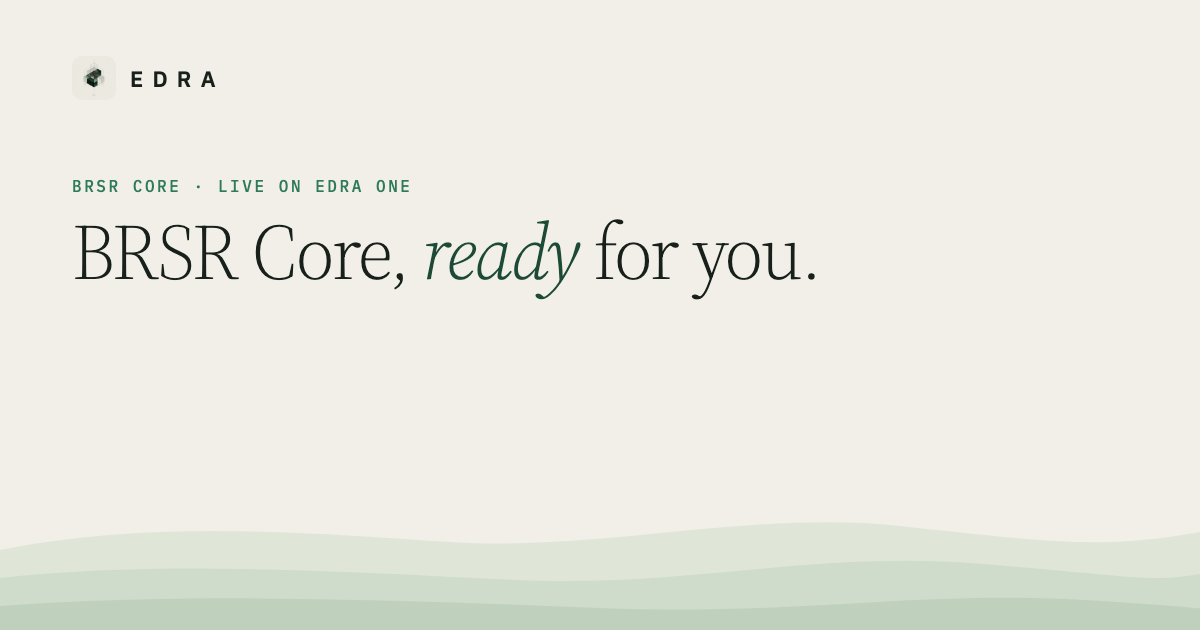
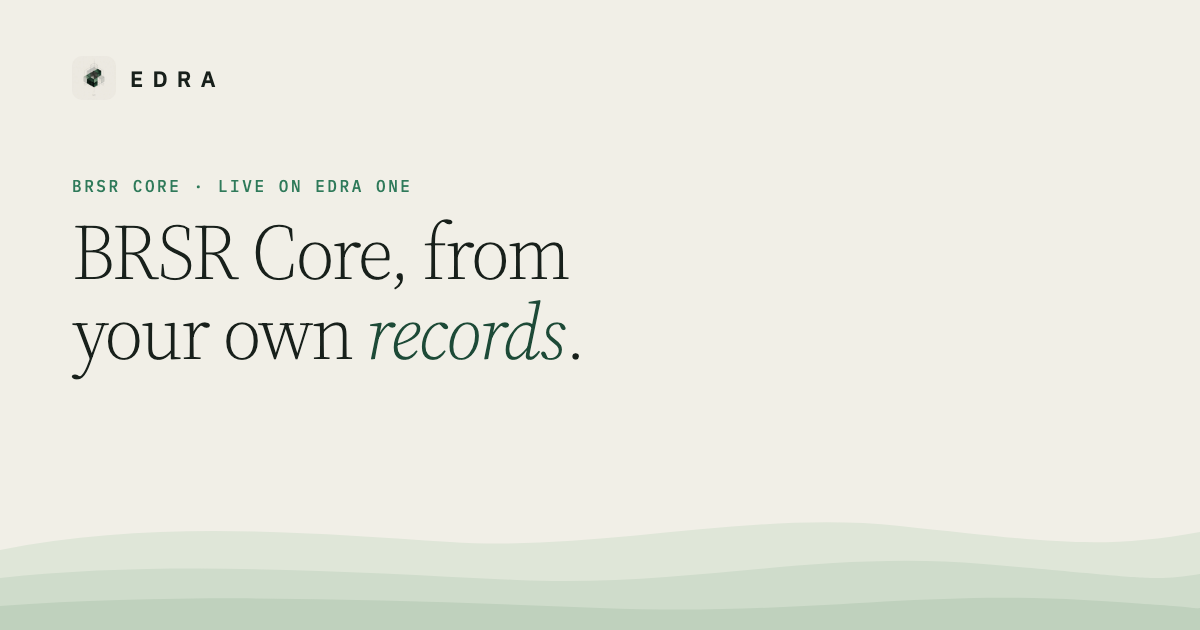
BRSR Core page: wording pass from the audit
- Hero: "BRSR Core, from your own records." (balanced two lines at all
  widths); tagline "Know it. Close it. Report it." (also title + share tags)
- "Know it before you report it." (sentence case)
- "Every figure carries its provenance." replaces "Provenance is the
  single source of Truth."
- Closing: "Bring a few months of bills and the registers you keep."
- Fifth screen caption: accepted figures go into a fresh calculation,
  and each line shows what your answers changed.
- Share card re-rendered with the new headline.

Changed region(s): [[0.0617, 0.3317, 0.5858, 0.6032], [0.5858, 0.3619, 0.6783, 0.4524]]

diff --git a/brsr-core.html b/brsr-core.html
@@ -32,16 +32,16 @@
 <meta property="og:type" content="website">
 <meta property="og:site_name" content="EDRA">
 <meta property="og:url" content="https://edraindex.com/brsr-core">
-<meta property="og:title" content="BRSR Core on EDRA ONE · Know It. Fix It. Report It.">
+<meta property="og:title" content="BRSR Core on EDRA ONE · Know it. Close it. Report it.">
 <meta property="og:description" content="EDRA ONE calculates each of the nine SEBI BRSR Core attributes from your own records and shows the evidence behind every figure.">
 <meta property="og:image" content="https://edraindex.com/assets/og/brsr-core.png">
 <meta property="og:image:width" content="1200">
 <meta property="og:image:height" content="630">
 <meta name="twitter:card" content="summary_large_image">
-<meta name="twitter:title" content="BRSR Core on EDRA ONE · Know It. Fix It. Report It.">
+<meta name="twitter:title" content="BRSR Core on EDRA ONE · Know it. Close it. Report it.">
 <meta name="twitter:description" content="EDRA ONE calculates each of the nine SEBI BRSR Core attributes from your own records and shows the evidence behind every figure.">
 <meta name="twitter:image" content="https://edraindex.com/assets/og/brsr-core.png">
-<title>BRSR Core on EDRA ONE · Know It. Fix It. Report It.</title>
+<title>BRSR Core on EDRA ONE · Know it. Close it. Report it.</title>
 <meta name="description" content="EDRA ONE calculates each of the nine SEBI BRSR Core attributes from your own records and shows the evidence behind every figure.">
 <link rel="icon" type="image/png" href="assets/edra-mark.png">
 <link rel="preconnect" href="https://fonts.googleapis.com">
@@ -91,8 +91,8 @@ a:focus-visible,button:focus-visible{outline:2px solid #c99a3c;outline-offset:2p
     <div style="position: relative; z-index: 1; flex: 1; width: 100%; max-width: 1280px; margin: 0 auto; padding: 40px 32px 80px; box-sizing: border-box; display: flex; align-items: center" class="hsplit">
       <div style="max-width: 560px; display: flex; flex-direction: column; align-items: flex-start; gap: 26px">
         <span style="display: inline-flex; align-items: center; gap: 10px; min-height: 34px; padding: 4px 14px; box-sizing: border-box; border: 1px solid #dcd9cc; border-radius: 999px; background: rgba(255, 255, 255, 0.72); font-size: 14px"><span style="width: 7px; height: 7px; border-radius: 50%; background: #2f7a5a; display: inline-block"></span>Live on EDRA ONE · India</span>
-        <h1 style="margin: 0; font-family: 'Source Serif 4', Georgia, serif; font-weight: 300; font-size: clamp(46px, 5.6vw, 84px); line-height: 1.0; letter-spacing: -0.025em; color: #18201b">BRSR Core,<br>ready for you.</h1>
-        <p style="margin: -6px 0 0; font-family: 'Source Serif 4', Georgia, serif; font-style: italic; font-weight: 300; font-size: clamp(26px, 2.6vw, 38px); line-height: 1.15; color: #1d4a37">Know It. Fix It. Report It.</p>
+        <h1 style="margin: 0; font-family: 'Source Serif 4', Georgia, serif; font-weight: 300; font-size: clamp(46px, 5.6vw, 84px); line-height: 1.0; letter-spacing: -0.025em; color: #18201b">BRSR Core, from<br>your own records.</h1>
+        <p style="margin: -6px 0 0; font-family: 'Source Serif 4', Georgia, serif; font-style: italic; font-weight: 300; font-size: clamp(26px, 2.6vw, 38px); line-height: 1.15; color: #1d4a37">Know it. Close it. Report it.</p>
         <p style="margin: 0; font-size: 19px; line-height: 1.55; color: #3c4540">SEBI's BRSR Core asks for nine attributes you can prove. EDRA ONE calculates each one from your own records, shows the evidence behind every figure, and tells you plainly what is still missing.</p>
         <div id="hero-cta" style="display: flex; flex-wrap: wrap; align-items: center; gap: 14px 28px; padding-top: 4px">
           <a href="#walkthrough" style="display: inline-flex; align-items: center; gap: 10px; min-height: 52px; padding: 0 26px; border-radius: 999px; background: #1d4a37; color: #ffffff; font-size: 16px; font-weight: 500; text-decoration: none">Book a BRSR Core walkthrough <svg width="16" height="16" viewBox="0 0 16 16" fill="none" stroke="currentColor" stroke-width="1.6" aria-hidden="true"><path d="M3 8h10M9 4l4 4-4 4"></path></svg></a>
@@ -161,7 +161,7 @@ a:focus-visible,button:focus-visible{outline:2px solid #c99a3c;outline-offset:2p
   <section id="screens" style="background: #e8e6db">
     <div style="max-width: 1280px; margin: 0 auto; box-sizing: border-box; padding: 120px 32px; display: flex; flex-direction: column; gap: 40px">
       <div style="display: grid; grid-template-columns: repeat(auto-fit, minmax(340px, 1fr)); gap: 24px 96px; align-items: end">
-        <div style="display: flex; flex-direction: column; gap: 24px"><span style="font-family: 'IBM Plex Mono', ui-monospace, monospace; font-size: 12px; letter-spacing: 0.18em; color: #2f7a5a">INSIDE EDRA ONE</span><h2 style="margin: 0; font-family: 'Source Serif 4', Georgia, serif; font-weight: 300; font-size: clamp(38px, 4.4vw, 60px); line-height: 1.04; letter-spacing: -0.02em">Know It before you Report It.</h2></div>
+        <div style="display: flex; flex-direction: column; gap: 24px"><span style="font-family: 'IBM Plex Mono', ui-monospace, monospace; font-size: 12px; letter-spacing: 0.18em; color: #2f7a5a">INSIDE EDRA ONE</span><h2 style="margin: 0; font-family: 'Source Serif 4', Georgia, serif; font-weight: 300; font-size: clamp(38px, 4.4vw, 60px); line-height: 1.04; letter-spacing: -0.02em">Know it before you report it.</h2></div>
         <p style="margin: 0; max-width: 560px; font-size: 18px; line-height: 1.62; color: #3c4540">Every BRSR Core result tells you where it stands, what it rests on, and who it is waiting on.</p>
       </div>
       <div style="display: flex; flex-wrap: wrap; align-items: center; justify-content: space-between; gap: 16px 24px">
@@ -209,7 +209,7 @@ a:focus-visible,button:focus-visible{outline:2px solid #c99a3c;outline-offset:2p
 
   <section id="assurance" style="background: #1d4a37">
     <div style="max-width: 1280px; margin: 0 auto; box-sizing: border-box; padding: 112px 32px; display: flex; flex-direction: column; gap: 52px">
-      <h2 style="margin: 0; font-family: 'Source Serif 4', Georgia, serif; font-weight: 300; font-size: clamp(30px, 4vw, 58px); line-height: 1.08; letter-spacing: -0.02em; color: #ffffff"><em style="font-style: italic">Provenance</em> is the single source of <em style="font-style: italic">Truth</em>.</h2>
+      <h2 style="margin: 0; font-family: 'Source Serif 4', Georgia, serif; font-weight: 300; font-size: clamp(30px, 4vw, 58px); line-height: 1.08; letter-spacing: -0.02em; color: #ffffff">Every figure carries its <em style="font-style: italic">provenance</em>.</h2>
       <div style="display: grid; grid-template-columns: repeat(auto-fit, minmax(240px, 1fr)); gap: 48px 56px">
         <div style="display: flex; flex-direction: column; gap: 12px">
           <p style="margin: 0; font-family: 'Source Serif 4', Georgia, serif; font-weight: 300; font-size: 30px; line-height: 1.18; color: #ffffff">Evidence, registered.</p>
@@ -261,7 +261,7 @@ a:focus-visible,button:focus-visible{outline:2px solid #c99a3c;outline-offset:2p
   <section id="walkthrough" style="background: #e8e6db">
     <div style="max-width: 1280px; margin: 0 auto; box-sizing: border-box; padding: 128px 32px; display: flex; flex-direction: column; align-items: center; text-align: center; gap: 24px">
       <h2 style="margin: 0; font-family: 'Source Serif 4', Georgia, serif; font-weight: 300; font-size: clamp(38px, 4.4vw, 60px); line-height: 1.04; letter-spacing: -0.02em; max-width: 820px">See your own BRSR Core position.</h2>
-      <p style="margin: 0; max-width: 580px; font-size: 18px; line-height: 1.62; color: #3c4540">Bring a few months of bills and an HR register. We will show you which attributes your records already support, and what it would take to close the rest.</p>
+      <p style="margin: 0; max-width: 580px; font-size: 18px; line-height: 1.62; color: #3c4540">Bring a few months of bills and the registers you keep. We will show you which attributes your records already support, and what it would take to close the rest.</p>
       <div style="padding-top: 8px"><a href="/contact" style="display: inline-flex; align-items: center; gap: 10px; min-height: 52px; padding: 0 26px; border-radius: 999px; background: #1d4a37; color: #ffffff; font-size: 16px; font-weight: 500; text-decoration: none">Book a BRSR Core walkthrough <svg width="16" height="16" viewBox="0 0 16 16" fill="none" stroke="currentColor" stroke-width="1.6" aria-hidden="true"><path d="M3 8h10M9 4l4 4-4 4"></path></svg></a></div>
     </div>
   </section>
@@ -488,7 +488,7 @@ class Component extends DCLogic {
       'The first calculation. Every open ask is listed, and you answer each one with its source file.',
       'Know what is true. Each result, its position and coverage, and what is needed from you first.',
       'Act on what matters. Every open ask, where it stands and the requirement it affects.',
-      'After your answers. Every ask is closed and the results are recalculated from what you sent.'
+      'After your answers. Accepted figures go into a fresh calculation, and each line shows what your answers changed.'
     ];
     var self = this;
     return {
@@ -508,7 +508,7 @@ class Component extends DCLogic {
   c.setCanvas(document.getElementById('hero-canvas'));
   var tabs = document.querySelectorAll('[data-tab]');
   if (!tabs.length) return;
-  var caps = ["A workbook arrives. It is kept exactly as sent, and nothing is shown until EDRA has calculated it.", "The first calculation. Every open ask is listed, and you answer each one with its source file.", "Know what is true. Each result, its position and coverage, and what is needed from you first.", "Act on what matters. Every open ask, where it stands and the requirement it affects.", "After your answers. Every ask is closed and the results are recalculated from what you sent."];
+  var caps = ["A workbook arrives. It is kept exactly as sent, and nothing is shown until EDRA has calculated it.", "The first calculation. Every open ask is listed, and you answer each one with its source file.", "Know what is true. Each result, its position and coverage, and what is needed from you first.", "Act on what matters. Every open ask, where it stands and the requirement it affects.", "After your answers. Accepted figures go into a fresh calculation, and each line shows what your answers changed."];
   function pick(i, focus) {
     tabs.forEach(function (t, j) {
       t.setAttribute('aria-selected', j === i ? 'true' : 'false');

diff --git a/assets/typeset.css b/assets/typeset.css
@@ -66,3 +66,7 @@ section h2 { line-height: 1.08 !important; }
 [style*="minmax(260px, 1fr)"] { column-gap: 32px !important; }
 [style*="minmax(260px, 1fr)"] > * { padding-right: 32px; box-sizing: border-box; }
 @media (max-width: 860px) { [style*="minmax(340px, 1fr)"] > :first-child, [style*="minmax(260px, 1fr)"] > * { padding-right: 0; } }
+
+/* BRSR Core hero headline: two lines at every desktop width. */
+@media (min-width: 901px) { #home:has(+ #attributes) h1 { font-size: clamp(44px, 4.9vw, 72px) !important; } }
+@media (max-width: 900px) { #home:has(+ #attributes) h1 { font-size: clamp(34px, 10vw, 44px) !important; } }
